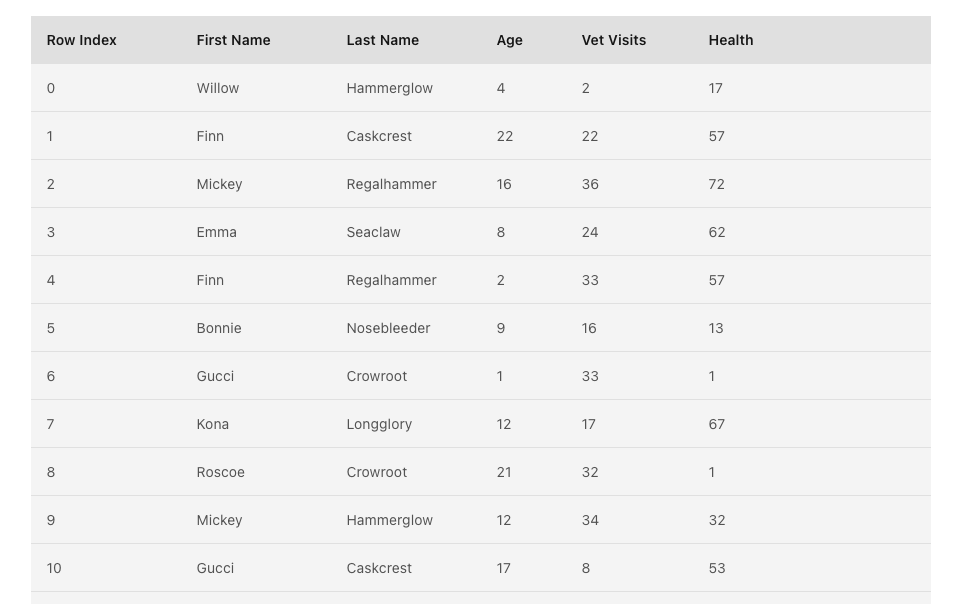
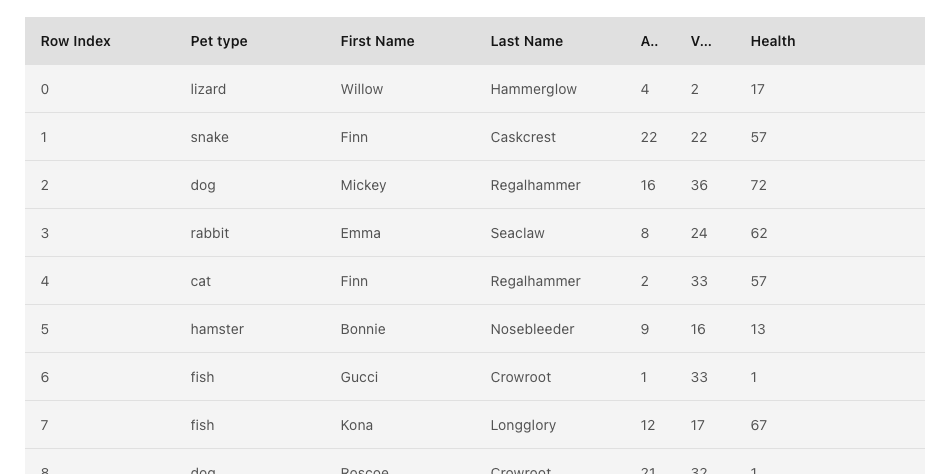
chore: add petType to columns

diff --git a/src/App.jsx b/src/App.jsx
@@ -13,6 +13,10 @@ function App() {
       id: 'rowIndex', // id is required when accessor is a function.
     },
     {
+      Header: 'Pet type',
+      accessor: 'petType',
+    },
+    {
       Header: 'First Name',
       accessor: 'firstName',
       sticky: 'left',
